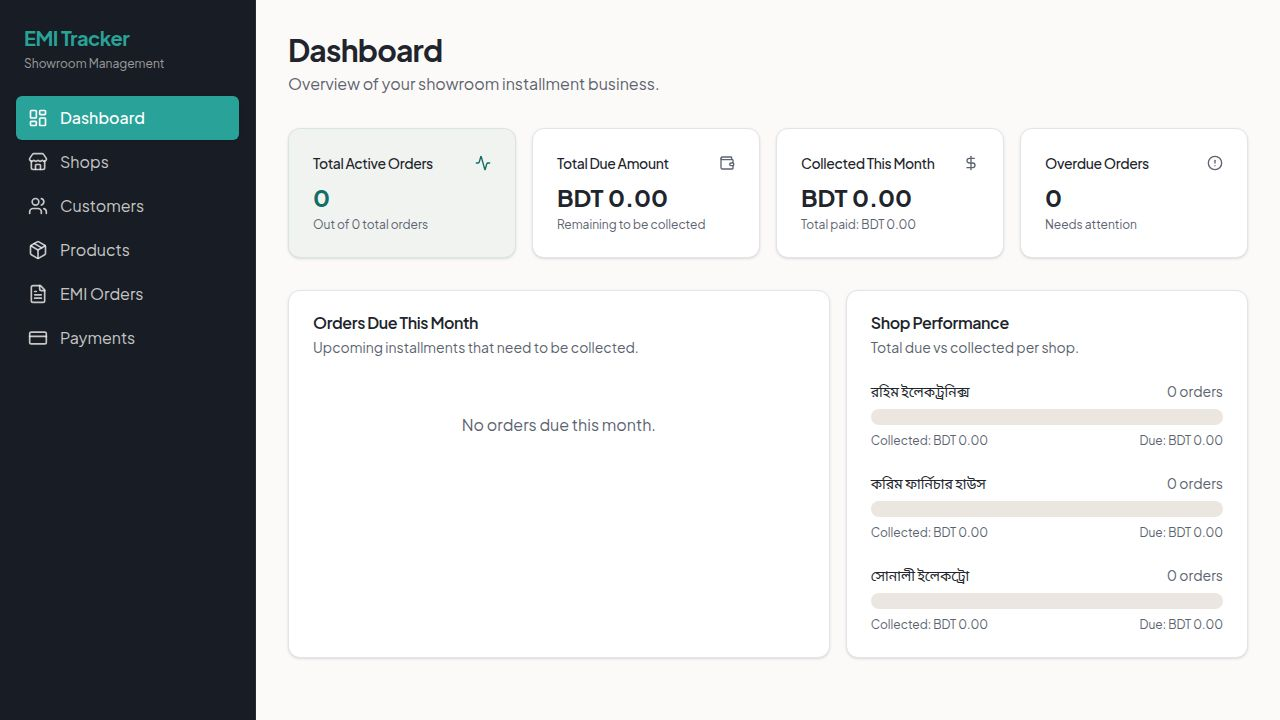
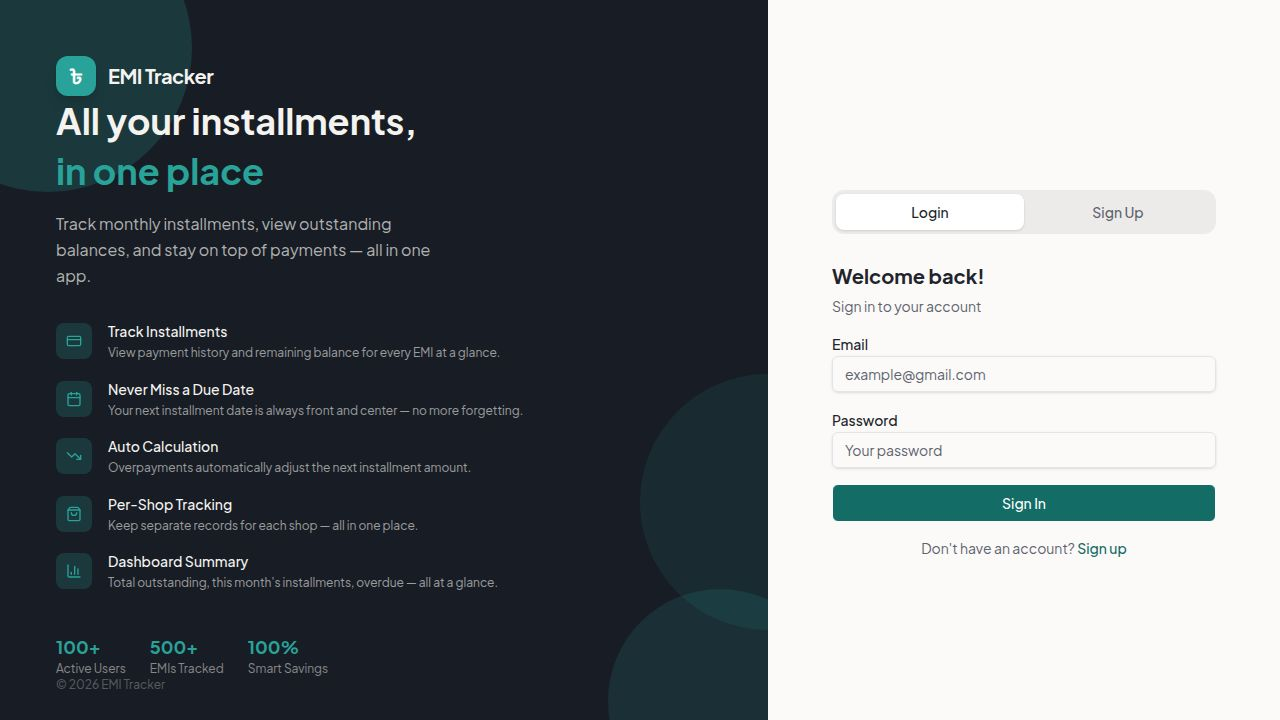
Remove duplicate workflows to allow artifact-managed processes to run
Remove custom EMI Tracker Frontend and API Server workflows that conflicted with artifact-managed processes by squatting on required ports.

Replit-Commit-Author: Agent
Replit-Commit-Session-Id: 4c9a3a3d-2d4f-4bd0-b2fb-e2bcfa5ba6e6
Replit-Commit-Checkpoint-Type: full_checkpoint
Replit-Commit-Event-Id: a8dd6da8-e3f7-4329-8f79-f940a40c99f3
Replit-Commit-Screenshot-Url: https://storage.googleapis.com/screenshot-production-us-central1/de75fcd3-8b0e-44d4-accf-e1445a810598/4c9a3a3d-2d4f-4bd0-b2fb-e2bcfa5ba6e6/Wx8LaOp
Replit-Helium-Checkpoint-Created: true

diff --git a/.agents/memory/port-workflow-config.md b/.agents/memory/port-workflow-config.md
@@ -6,25 +6,19 @@ description: Critical port and workflow setup for EMI Tracker on Replit — prev
 # Port & Workflow Configuration
 
 ## Rule
-- Frontend MUST run on port 5000 with `PORT=5000 BASE_PATH=/` — this is the Replit webview port.
+- All workflows are now artifact-managed — do NOT create custom duplicate workflows for frontend or API.
 - API server runs on port 8080.
 - Node.js version must be 22 (not 20) — Supabase JS requires native WebSocket (Node 22+).
-- `BASE_PATH=/` must exist as a shared env var.
+- `BASE_PATH=/` must exist as a shared env var (Replit injects it into artifact workflows automatically).
 
-**Why:** Replit's webview only works on port 5000 (maps to external port 80). The old config used port 3000 → external 3001, which broke the webview. `@supabase/realtime-js` crashes on Node 20 with no native WebSocket.
+**Why:** When Replit adds artifact workflows, they inject PORT and BASE_PATH automatically. Any custom workflow with the same command will grab the same port first (EADDRINUSE), causing the artifact workflow to fail.
 
-**How to apply:** If the frontend workflow is ever recreated or reconfigured, always use:
-- command: `PORT=5000 BASE_PATH=/ pnpm --filter @workspace/emi-tracker run dev`
-- waitForPort: 5000
-- outputType: webview
-
-## Artifact-managed workflows (cannot delete/reconfigure)
-Replit auto-creates these — they run alongside the custom workflow and cannot be removed:
-- `artifacts/emi-tracker: web` — runs on a random internal port, not the webview port. Harmless.
-- `artifacts/api-server: API Server` — runs on port 8080 (same as needed). If it conflicts with a custom API Server workflow, remove the custom one.
-- `artifacts/mockup-sandbox: Component Preview Server` — canvas tool, port 8081.
+**How to apply:** Do NOT create custom `EMI Tracker Frontend` or `API Server` workflows — use the artifact-managed ones exclusively:
+- `artifacts/emi-tracker: web` — frontend, Replit-injected PORT (~19185) + BASE_PATH
+- `artifacts/api-server: API Server` — API, port 8080
+- `artifacts/mockup-sandbox: Component Preview Server` — canvas, port 8081
 
 ## Symptom → Fix
-- Webview shows port 3001: frontend is on port 3000, not 5000. Reconfigure `EMI Tracker Frontend` to `PORT=5000`.
-- API server EADDRINUSE 8080: two API server workflows running at once. Remove the custom one, keep artifact-managed.
-- `artifacts/emi-tracker: web` finishes with SIGTERM: expected when `EMI Tracker Frontend` occupies port 5000. Not a problem.
+- `artifacts/emi-tracker: web` FAILED "Port XXXXX already in use": a custom frontend workflow is squatting on the same port. Remove the custom workflow.
+- `artifacts/api-server: API Server` FAILED "EADDRINUSE 8080": a custom API Server workflow is running. Remove it.
+- `vite.config.ts` throws "PORT environment variable is required": only happens if running outside the artifact context; Replit injects PORT for artifact workflows automatically.

diff --git a/replit.md b/replit.md
@@ -67,12 +67,10 @@ _Populate as you build — explicit user instructions worth remembering across s
 ## Workflow & Port Configuration (IMPORTANT)
 
 - **Node.js version: 22** (not 20) — required for native WebSocket support used by `@supabase/supabase-js`. Do NOT downgrade.
-- **Frontend workflow**: `EMI Tracker Frontend` — command `PORT=5000 BASE_PATH=/ pnpm --filter @workspace/emi-tracker run dev`, port 5000, outputType `webview`. This is the Replit webview entry point. Do NOT change the port.
-- **API workflow**: handled by artifact-managed `artifacts/api-server: API Server` on port 8080.
+- **Frontend workflow**: `artifacts/emi-tracker: web` — artifact-managed, runs `pnpm --filter @workspace/emi-tracker run dev`, Replit injects PORT and BASE_PATH automatically.
+- **API workflow**: `artifacts/api-server: API Server` — artifact-managed, runs `pnpm --filter @workspace/api-server run dev` on port 8080.
 - **`BASE_PATH=/`** is set as a shared env var — required by `vite.config.ts`, do not remove.
-- **Port mapping**: 5000 → external 80 (webview), 8080 → external 8080 (API).
-- Replit auto-creates artifact-managed workflows (`artifacts/emi-tracker: web`, `artifacts/api-server: API Server`, `artifacts/mockup-sandbox: Component Preview Server`) that **cannot be deleted or reconfigured**. They run alongside the custom `EMI Tracker Frontend` workflow — this is expected and fine.
-- If the webview shows port 3001, it means the frontend is incorrectly running on port 3000 instead of 5000. Fix: reconfigure `EMI Tracker Frontend` to use `PORT=5000`.
+- Replit artifact-managed workflows (`artifacts/emi-tracker: web`, `artifacts/api-server: API Server`, `artifacts/mockup-sandbox: Component Preview Server`) **cannot be deleted or reconfigured**. Do NOT create custom duplicate workflows for these — they will conflict on the same ports and cause EADDRINUSE failures.
 
 ## Pointers
 